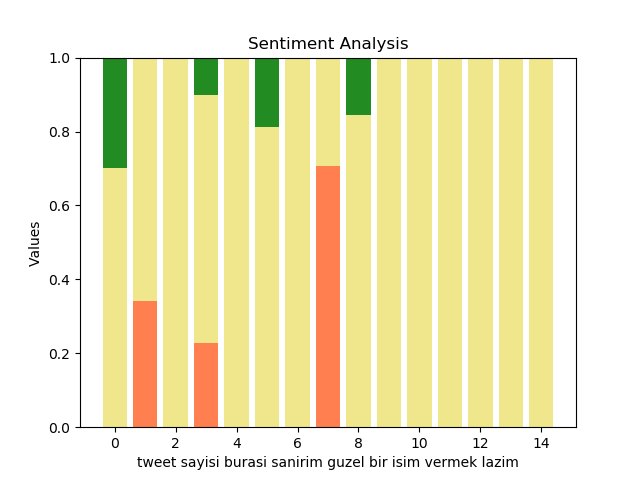
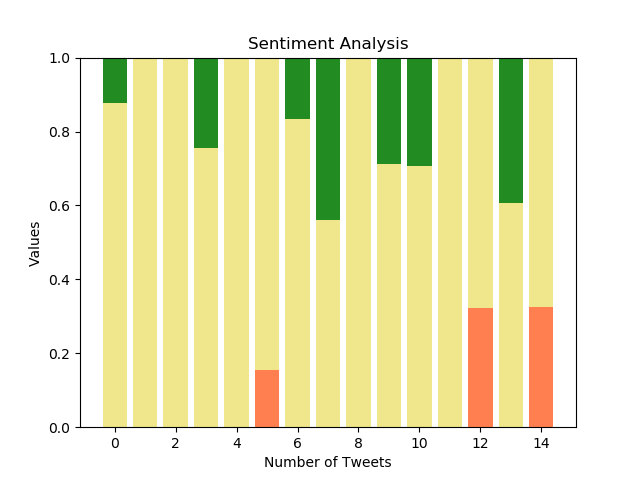
solved graph

diff --git a/swe573/analyze/templates/analyze/test.html b/swe573/analyze/templates/analyze/test.html
@@ -28,7 +28,8 @@
     {% load static %}
 
     {% if sentiment_graph != None %}
-    <img src="{{sentiment_graph}}" width="600" height="450" title="Sentiment Analysis Graph">
+    <!--<img src="{{sentiment_graph}}" width="600" height="450" title="Sentiment Analysis Graph">-->
+    <img src="{% static 'deniz_graph.png' %}" width="600" height="450" title="Sentiment Analysis Graph">
     {% endif %}
 </div>
 </body>

diff --git a/swe573/analyze/views.py b/swe573/analyze/views.py
@@ -11,7 +11,6 @@ from nltk.sentiment.vader import SentimentIntensityAnalyzer
 from bs4 import BeautifulSoup
 from textblob import TextBlob
 import operator
-import preprocessor as p
 from analyze.graphstuff.Graph import Graph
 from swe573 import settings
 from django.http import HttpResponse
@@ -44,9 +43,10 @@ def test(request, string):
     requestData = api.search(q=searchquery, count=15, lang='en')
     jsonObject = json.dumps([status._json for status in requestData])
     results = json.loads(jsonObject)
+    import preprocessor
     for tweet in results:
-        p.set_options(p.OPT.URL, p.OPT.MENTION, p.OPT.RESERVED)
-        tweetData = p.clean(tweet['text'])
+        preprocessor.set_options(preprocessor.OPT.URL, preprocessor.OPT.MENTION, preprocessor.OPT.RESERVED)
+        tweetData = preprocessor.clean(tweet['text'])
         # print(tweetData)
         # sid = SentimentIntensityAnalyzer()
         # ss = sid.polarity_scores(tweetData)
@@ -79,7 +79,7 @@ def generate_sentiment_graph(data_set):
     return result
 
 
-def show_sentiment_graph():
+def show_sentiment_graph(request):
     my_graph = open(settings.BASE_DIR + settings.STATIC_URL + 'deniz_graph.png', "rb").read()
     print(settings.BASE_DIR + settings.STATIC_URL + 'deniz_graph.png')
     return HttpResponse(my_graph, content_type="image/png")

diff --git a/swe573/analyze/urls.py b/swe573/analyze/urls.py
@@ -5,11 +5,12 @@ from . import views
 urlpatterns = [
     url(r'^home/$', views.home, name='home'),
     url(r'^register/$', views.register, name='register'),
-    url(r'^login/$', auth_views.login,{'template_name': 'analyze/login.html'} , name='login'),
+    url(r'^login/$', auth_views.login, {'template_name': 'analyze/login.html'}, name='login'),
     url(r'^logout/$', auth_views.logout, {'next_page': '/'}, name='logout'),
     url(r'^test/(?P<string>[\w\-]+)/$', views.test, name='test'),
     url(r'', views.home, name='home'),
-    url(r'^settings.STATIC_URL + "deniz_graph.png"', views.show_sentiment_graph, name='sentiment_graph'),
+    url(r'^settings.STATIC_URL + "deniz_graph.png"', views.show_sentiment_graph,
+        name='show_sentiment_graph'),
 ]
 
-#    
+#

diff --git a/swe573/swe573/settings.py b/swe573/swe573/settings.py
@@ -119,7 +119,11 @@ USE_TZ = True
 # https://docs.djangoproject.com/en/1.11/howto/static-files/
 
 STATIC_URL = '/static/'
-STATIC_ROOT = os.path.join(BASE_DIR, 'static')
+# STATIC_ROOT = os.path.join(BASE_DIR, 'static')
 LOGIN_URL = 'login'
 LOGOUT_URL = 'logout'
 LOGIN_REDIRECT_URL = 'home'
+
+STATICFILES_DIRS = [
+    os.path.join(BASE_DIR, "static"),
+]

diff --git a/swe573/analyze/graphstuff/Graph.py b/swe573/analyze/graphstuff/Graph.py
@@ -42,7 +42,7 @@ class Graph(object):
         #
         fig = plt.figure()
         plt.title('Sentiment Analysis')
-        plt.xlabel('tweet sayisi burasi sanirim guzel bir isim vermek lazim')
+        plt.xlabel('Number of Tweets')
         plt.ylabel('Values')
         print(type(neg))
         print(neg)
